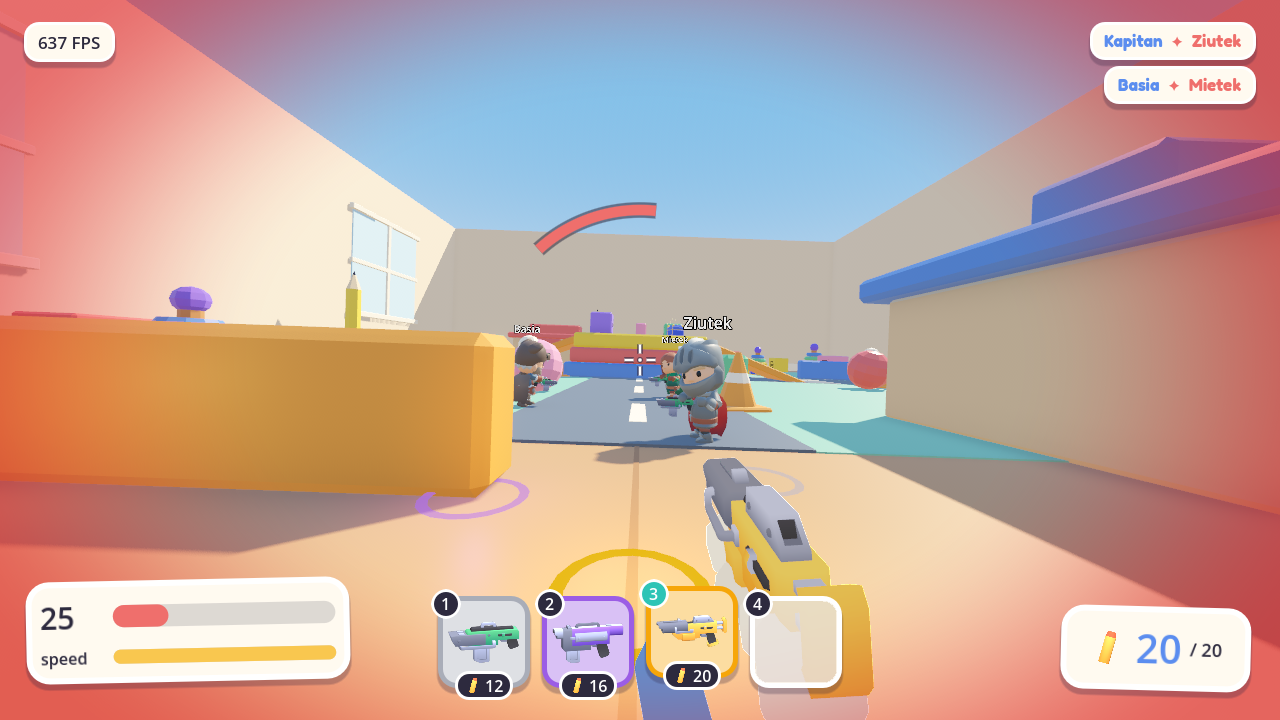
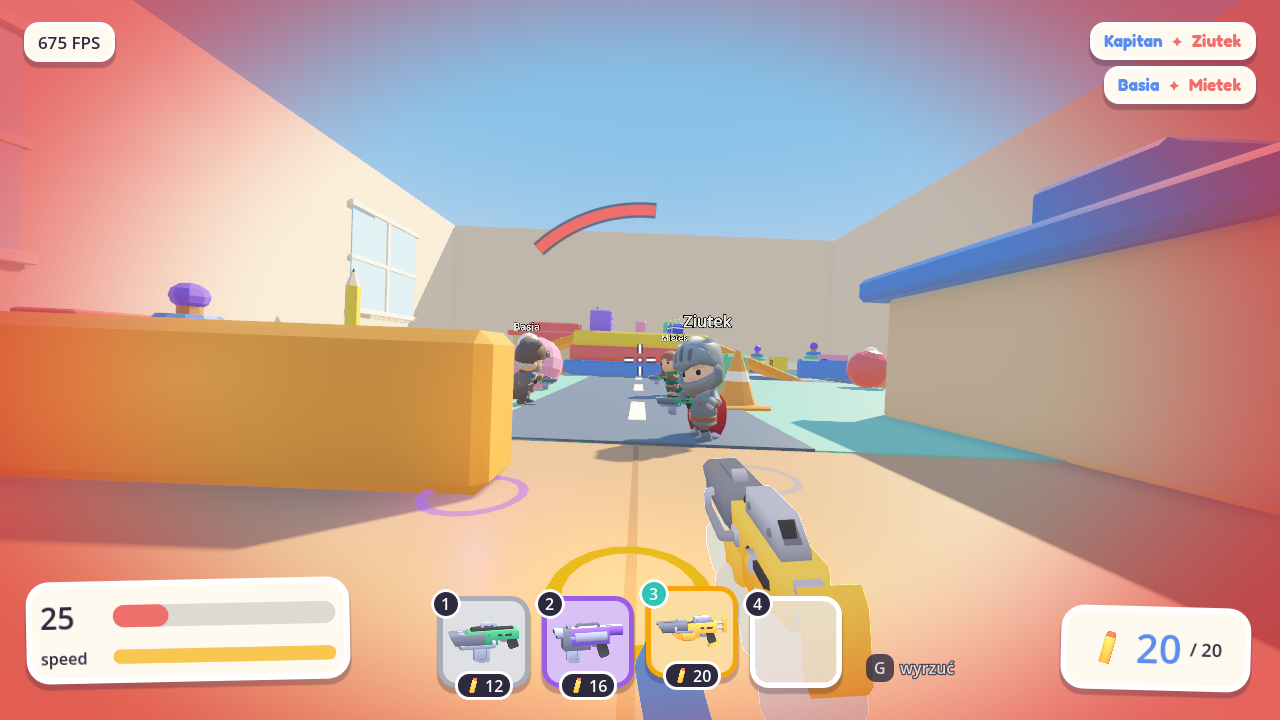
Add camera shake, body sounds and a drop hint
Camera shake now goes through one system that hits, deaths, kills,
landings and chests all feed, with a setting to turn it down. Players
get footsteps, jump, landing, death, respawn and out-of-breath sounds,
and the weapon dips on pickup and drop. A hint next to the hotbar shows
that G drops the held item.

Tracers now start from the muzzle as drawn in the current frame. Shots
resolve in a tick, when the weapon still sits at its previous frame's
position, so tracers started beside it while strafing.

diff --git a/docs/DEVELOPMENT.md b/docs/DEVELOPMENT.md
@@ -34,7 +34,7 @@ Po zmianie sieci podnieś `PROTOCOL_VERSION` w `scripts/core/net.gd`.
 
 ## Testy
 
-Testy to skrypty w `tools/`, uruchamiane parametrem `-- --tool=res://tools/NAZWA.gd`: `items_test`, `hitscan_test` (bez okna), `inventory_test`, `pickup_test`, `flow_test`, `chest_test` z `--debug-chests`, `settings_test` z `--settings-path=user://test_settings.cfg` (w oknie). `tools/bot_test.sh`, `tools/hit_test.sh` i `tools/loot_test.sh` i `tools/chest_test.sh` sprawdzają sieć z botami, a `tools/lag_proxy.py` dodaje opóźnienie i utratę pakietów.
+Testy to skrypty w `tools/`, uruchamiane parametrem `-- --tool=res://tools/NAZWA.gd`: `items_test`, `hitscan_test` (bez okna), `inventory_test`, `pickup_test`, `feel_test`, `flow_test`, `chest_test` z `--debug-chests`, `settings_test` z `--settings-path=user://test_settings.cfg` (w oknie). `tools/bot_test.sh`, `tools/hit_test.sh` i `tools/loot_test.sh` i `tools/chest_test.sh` sprawdzają sieć z botami, a `tools/lag_proxy.py` dodaje opóźnienie i utratę pakietów.
 
 ## Zasoby wizualne
 
